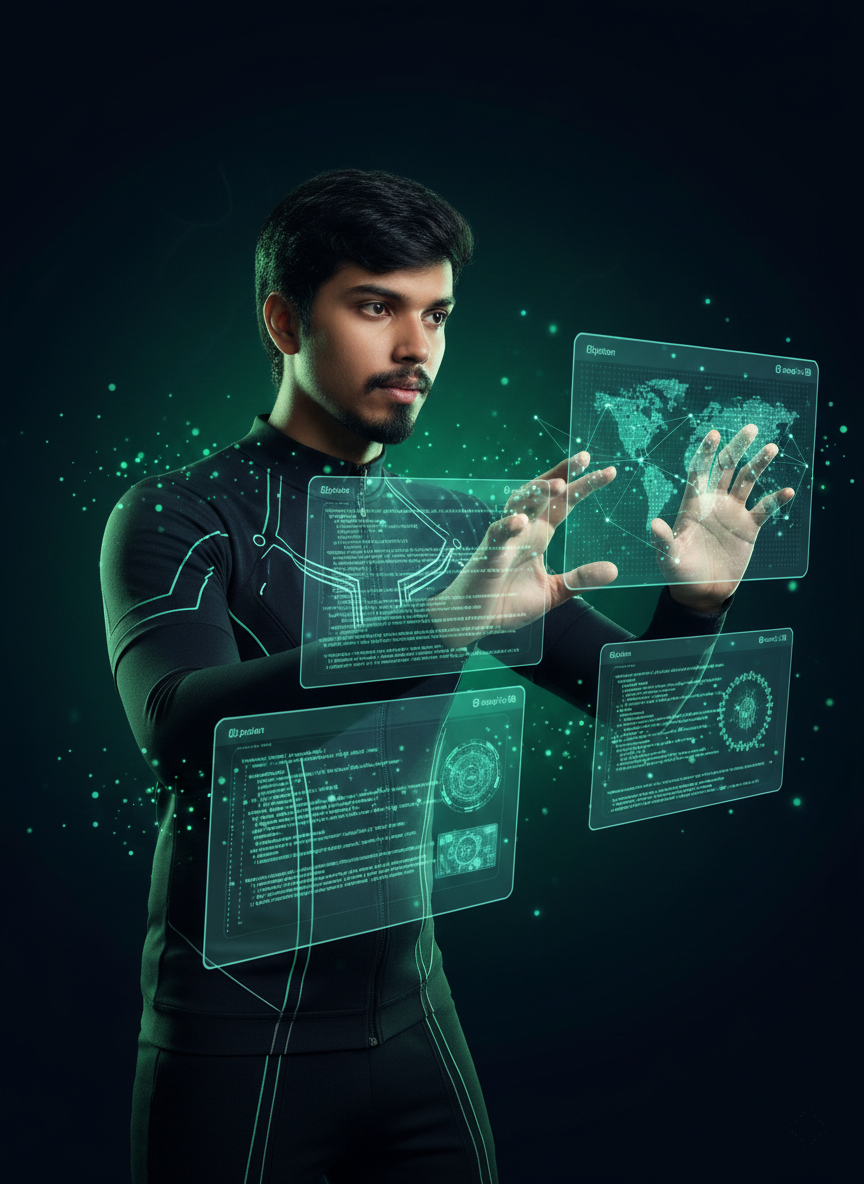
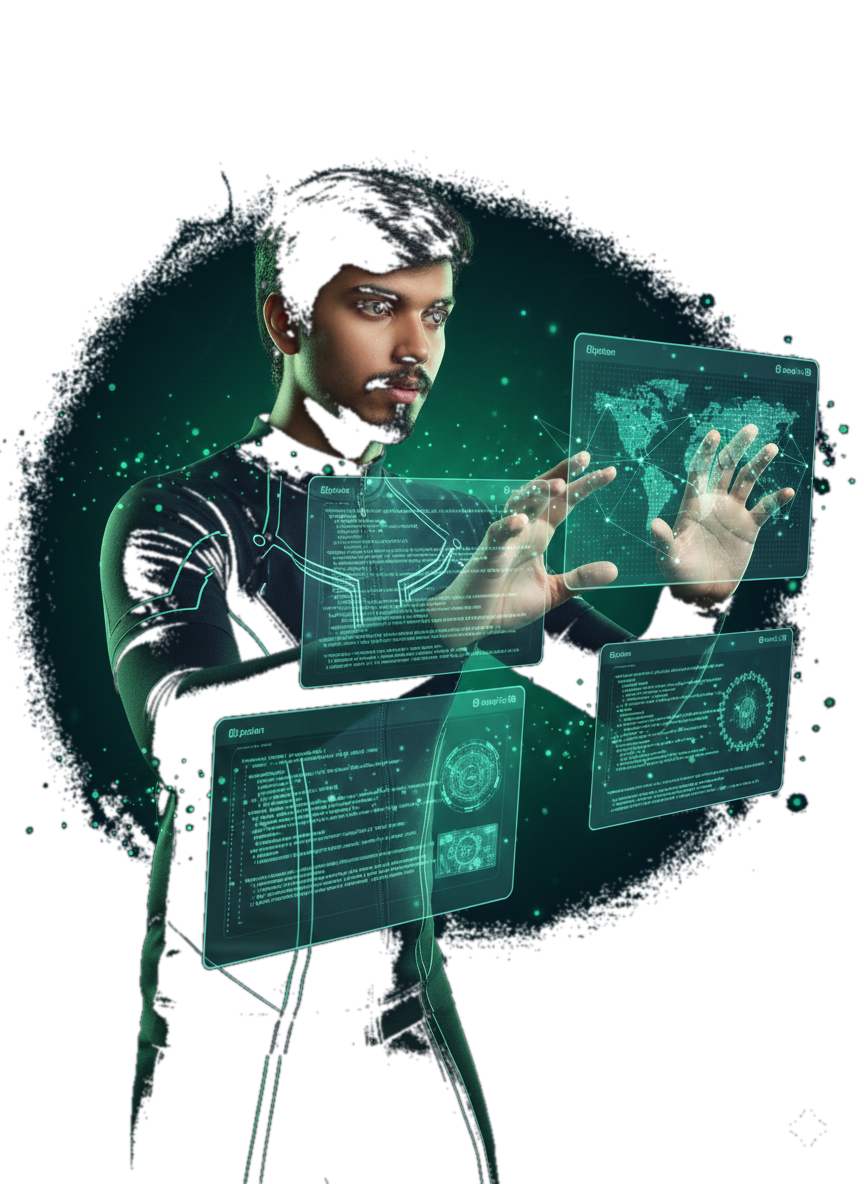
fix: broken thumbnails, unicode size tabs, and hero image backgrounds
- Remove thumbnailImage paths for non-existent PNGs so fallback accent
  dots render instead of broken image icons
- Replace \u00d7 unicode escape with actual × character in editor size tabs
- Remove dark backgrounds from all 4 hero PNGs for proper radial mask
  blending on the dark canvas

https://claude.ai/code/session_01SDNkYyzpcmcz9wXVFv1XVL

diff --git a/src/components/canva-editor/templateDefinitions.ts b/src/components/canva-editor/templateDefinitions.ts
@@ -210,7 +210,7 @@ export const TEMPLATES: TemplateInfo[] = [
     group: 'standalone',
     thumbnailBg: '#0D1117',
     thumbnailAccent: '#20C997',
-    thumbnailImage: '/templates/ai-engineering/thumbnails/A-todos-v5.png',
+    // thumbnailImage removed — PNGs not yet in repo; fallback accent dot renders instead
     createElements: () => [
       makeLogo(),
       makeSubscriberBadge(),
@@ -244,7 +244,7 @@ export const TEMPLATES: TemplateInfo[] = [
     group: 'standalone',
     thumbnailBg: '#0D1117',
     thumbnailAccent: '#3b82f6',
-    thumbnailImage: '/templates/ai-engineering/thumbnails/B-skip-v5.png',
+    // thumbnailImage removed — PNGs not yet in repo
     createElements: () => [
       makeLogo(),
       makeSubscriberBadge(),
@@ -272,7 +272,7 @@ export const TEMPLATES: TemplateInfo[] = [
     group: 'standalone',
     thumbnailBg: '#0D1117',
     thumbnailAccent: '#20C997',
-    thumbnailImage: '/templates/ai-engineering/thumbnails/C-three-pillars.png',
+    // thumbnailImage removed — PNGs not yet in repo
     createElements: () => [
       // Trio image — top ~50%, linear mask
       makeImage({ x: 0, y: 0, width: 1080, height: 560, src: '/images/bootcamps/ai-engineering/heroes/superhero-trio.png', maskType: 'linear', maskParams: 'linear-gradient(to bottom, transparent 0%, rgba(0,0,0,0.3) 5%, rgba(0,0,0,1) 15%, rgba(0,0,0,1) 70%, rgba(0,0,0,0) 100%)', zIndex: 3 }),
@@ -306,7 +306,7 @@ export const TEMPLATES: TemplateInfo[] = [
     group: 'standalone',
     thumbnailBg: '#0D1117',
     thumbnailAccent: '#3b82f6',
-    thumbnailImage: '/templates/ai-engineering/thumbnails/D-500seats-v5.png',
+    // thumbnailImage removed — PNGs not yet in repo
     createElements: () => [
       makeLogo(),
       makeSubscriberBadge(),
@@ -336,7 +336,7 @@ export const TEMPLATES: TemplateInfo[] = [
     group: 'standalone',
     thumbnailBg: '#0D1117',
     thumbnailAccent: '#3b82f6',
-    thumbnailImage: '/templates/ai-engineering/thumbnails/E-build-v5.png',
+    // thumbnailImage removed — PNGs not yet in repo
     createElements: () => [
       makeLogo(),
       makeSubscriberBadge(),
@@ -367,7 +367,7 @@ export const TEMPLATES: TemplateInfo[] = [
     group: 'standalone',
     thumbnailBg: '#0D1117',
     thumbnailAccent: '#D7EF3F',
-    thumbnailImage: '/templates/ai-engineering/thumbnails/F-orchestrate-v5.png',
+    // thumbnailImage removed — PNGs not yet in repo
     createElements: () => [
       makeLogo(),
       makeSubscriberBadge(),
@@ -398,7 +398,7 @@ export const TEMPLATES: TemplateInfo[] = [
     group: 'standalone',
     thumbnailBg: '#0D1117',
     thumbnailAccent: '#20C997',
-    thumbnailImage: '/templates/ai-engineering/thumbnails/G-distribute-v5.png',
+    // thumbnailImage removed — PNGs not yet in repo
     createElements: () => [
       makeLogo(),
       makeSubscriberBadge(),
@@ -429,7 +429,7 @@ export const TEMPLATES: TemplateInfo[] = [
     group: 'standalone',
     thumbnailBg: '#0D1117',
     thumbnailAccent: '#3b82f6',
-    thumbnailImage: '/templates/ai-engineering/thumbnails/H-personal-v5.png',
+    // thumbnailImage removed — PNGs not yet in repo
     createElements: () => [
       makeLogo(),
       makeSubscriberBadge(),
@@ -457,7 +457,7 @@ export const TEMPLATES: TemplateInfo[] = [
     group: 'standalone',
     thumbnailBg: '#0D1117',
     thumbnailAccent: '#20C997',
-    thumbnailImage: '/templates/ai-engineering/thumbnails/I-twobootcamps-v5.png',
+    // thumbnailImage removed — PNGs not yet in repo
     createElements: () => [
       makeLogo(),
       makeSubscriberBadge(),
@@ -497,7 +497,7 @@ export const TEMPLATES: TemplateInfo[] = [
     group: 'standalone',
     thumbnailBg: '#0D1117',
     thumbnailAccent: '#3b82f6',
-    thumbnailImage: '/templates/ai-engineering/thumbnails/J-price-v5.png',
+    // thumbnailImage removed — PNGs not yet in repo
     createElements: () => [
       makeLogo(),
       makeSubscriberBadge(),

diff --git a/src/app/editor/[id]/page.tsx b/src/app/editor/[id]/page.tsx
@@ -518,7 +518,7 @@ export default function EditorPage() {
               }}
               title={size.description}
             >
-              {size.width}\u00d7{size.height}
+              {size.width}×{size.height}
             </button>
           ))}
           <div style={{ width: 1, height: 20, backgroundColor: 'rgba(255,255,255,0.1)', margin: '0 4px' }} />
